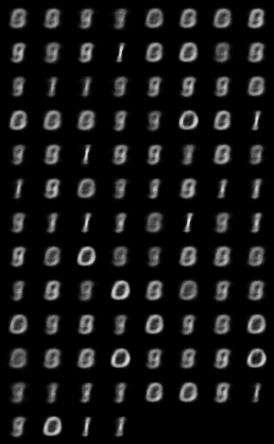
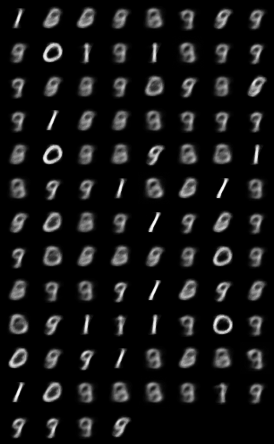
wed morning update

diff --git a/deprecated/mnist_binary_vae/mnist_tompkin_net.py b/deprecated/mnist_binary_vae/mnist_tompkin_net.py
@@ -14,16 +14,15 @@ import operator
 # HyperParameters
 learning_rate = 0.001
 num_epochs = 4
-im_side = 32
-im_sz = im_side*im_side # size of the image
-z_sz = 20 # z = [z_style, z_content]
+im_sz = 784
+z_sz = 2 # z = [z_style, z_content]
 dec_fc1_sz = 400
 batch_sz = 100
 
 # MNIST dataset
 dataset = datasets.MNIST(root='./data',
                          train=True,
-                         transform=transforms.Compose([torchvision.transforms.Pad(2),transforms.ToTensor()]),
+                         transform=transforms.ToTensor(),
                          download=True)
 
 # Data loader
@@ -42,12 +41,17 @@ class TompkinNet(nn.Module):
     def __init__(self):
         super(TompkinNet, self).__init__()
 
+        '''
         # Encoder Layers
         self.conv1 = nn.Conv2d(1, 6, 5)
         self.conv2 = nn.Conv2d(6, 16, 5)
         self.fc1 = nn.Linear(16 * 5 * 5, 120)
         self.fc2 = nn.Linear(120, 84)
         self.fc3 = nn.Linear(84, 2*z_sz)
+        '''
+
+        self.enc_fc1 = nn.Linear(im_sz, 400)
+        self.enc_fc2 = nn.Linear(400, 2*z_sz)
 
         # Decoder Layers
         self.dec_fc1 = nn.Linear(z_sz, dec_fc1_sz)
@@ -59,13 +63,15 @@ class TompkinNet(nn.Module):
 
     # LeNet
     def encode(self,x):
+        '''
         x = F.max_pool2d(F.relu(self.conv1(x)), (2, 2))
         x = F.max_pool2d(F.relu(self.conv2(x)), 2)
         x = x.view(-1, self.num_flat_features(x))
         x = F.relu(self.fc1(x))
         x = F.relu(self.fc2(x))
         x = self.fc3(x)
-        return x
+        '''
+        return self.enc_fc2(F.leaky_relu(self.enc_fc1(x),0.2))
 
     def num_flat_features(self, x):
         size = x.size()[1:]
@@ -103,8 +109,8 @@ class TompkinNet(nn.Module):
         z1_style, _ = torch.chunk(z1, 2, dim=1)
         z2_style, _ = torch.chunk(z2, 2, dim=1)
         style = torch.cat((z1_style, z2_style), -1)
-        linkout = self.linknet(style)
-        return out1, mu1, logvar1, out2, mu2, logvar2, linkout
+
+        return out1, mu1, logvar1, out2, mu2, logvar2
 
     # Given a z, get an x
     def sample(self,z):
@@ -118,7 +124,7 @@ def vae_loss(x, out, mu, logvar):
     return KL_divergence, cross_entropy
 
 def link_loss(linkout, eq_labels):
-    return F.binary_cross_entropy(linkout, eq_labels)
+    return torch.Tensor([0])
 
 tnet = TompkinNet()
 print(tnet)
@@ -144,7 +150,7 @@ L_ = []
 
 for epoch in range(num_epochs):
     for batch_idx, (data, labels) in enumerate(data_loader):
-        images = to_var(data)
+        images = to_var(data.view(data.size(0), -1))
         images1, images2 = torch.chunk(images, 2, dim=0)
         labels1, labels2 = torch.chunk(labels, 2, dim=0)
 
@@ -160,10 +166,6 @@ for epoch in range(num_epochs):
         linkloss = link_loss(linkout, eq_labels)
         linkaccuracy = linkout.max(dim=1)[1].view((batch_sz/2, 1))
         linkaccuracy = linkaccuracy.eq(eq_labels_vec.long()).sum()
-
-        # ERROR THIS GOES TO 0
-        print(linkout.max(dim=1)[1].view((batch_sz/2, 1)).sum())
-        #print(linkout.max(dim=1)[1].view((batch_sz/2, 1)))
 
         KL = KL1 + KL2
         XEnt = XEnt1 + XEnt2

diff --git a/modules/mnist_vae.py b/modules/mnist_vae.py
@@ -11,7 +11,7 @@ from torch.autograd import Variable
 
 # Parameters
 data_dir = '../data/MNIST'
-z_sz = 5
+z_sz = 10
 learning_rate = 0.01
 batch_sz = 50
 im_sz = 28*28
